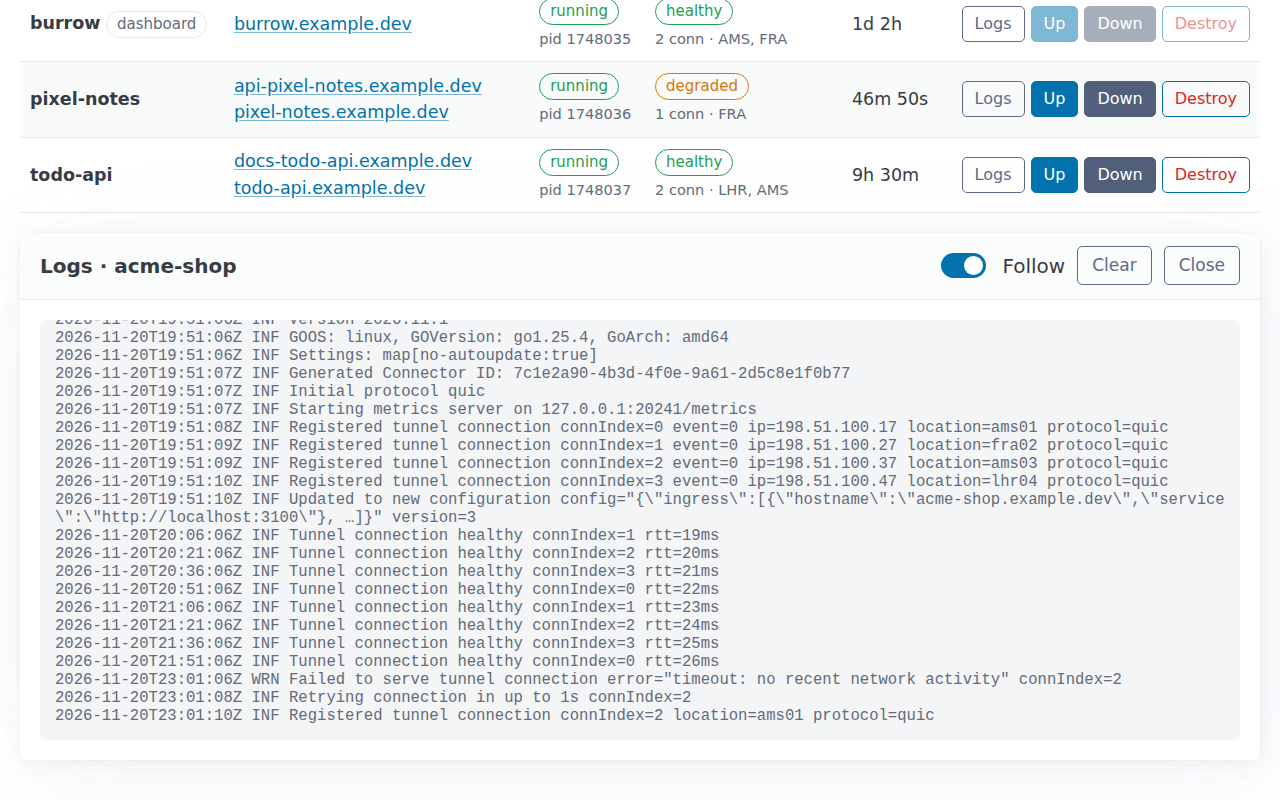
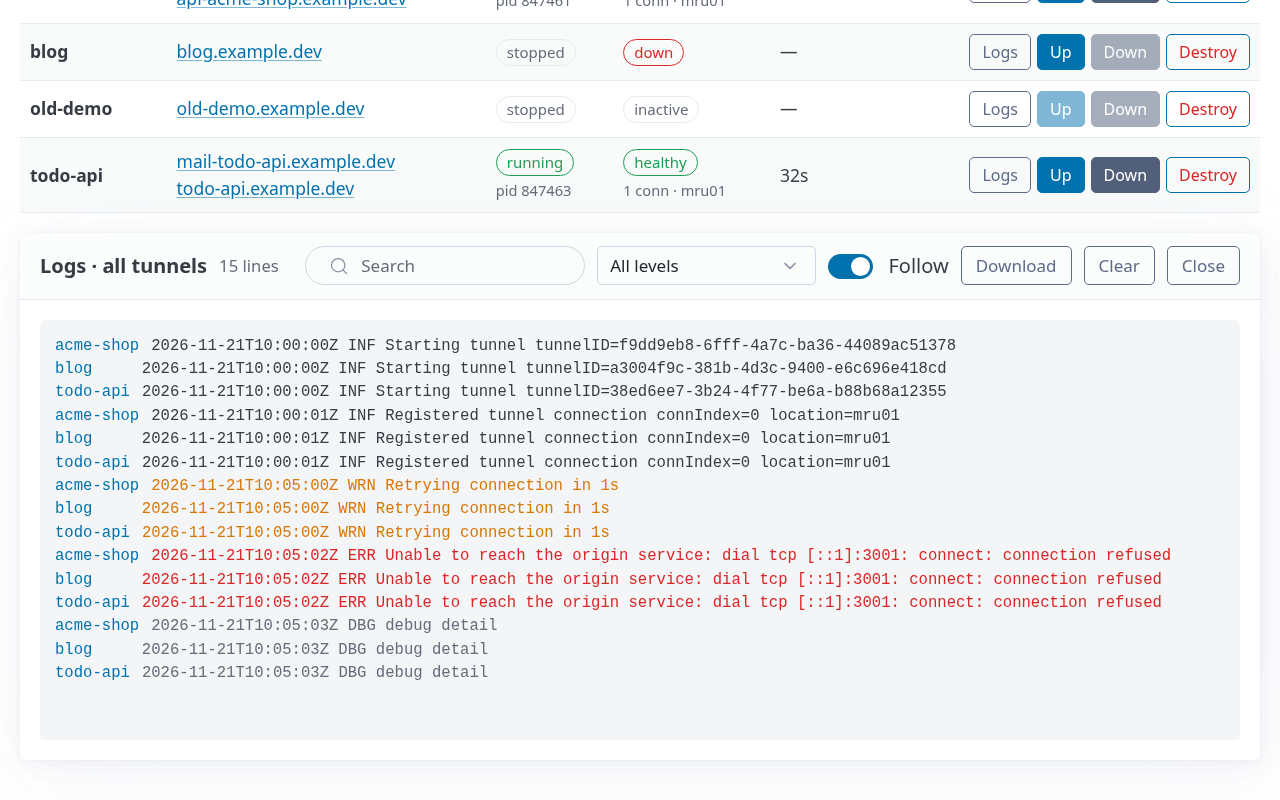
docs(readme): document the log viewer features and refresh its screenshot

diff --git a/README.md b/README.md
@@ -220,7 +220,17 @@ _Not merged yet (`feature/ui-stats`)._
 
 ### Logs
 
-_Not merged yet (`feature/ui-logs`)._
+The log viewer (**Logs** on a row, or **All logs** in the top bar for every tunnel at once):
+
+- **Search** filters lines as you type (in the combined view it matches project names too).
+- **Level** filter: all, info and up, warnings and errors, or errors only. Levels come from
+  cloudflared's `DBG/INF/WRN/ERR` (and `level=…`); warnings and errors are coloured.
+- **All logs** interleaves every `~/.local/state/burrow/*.log` by timestamp, tags each line with
+  its project, and picks up projects that start logging later.
+- **Download** saves the log as a file: the last 10 MB of one project, or the last 2 MB of each
+  project merged into one file for **All logs**.
+
+The viewer keeps the newest 3000 lines in the browser.
 
 ### Quick actions
 
